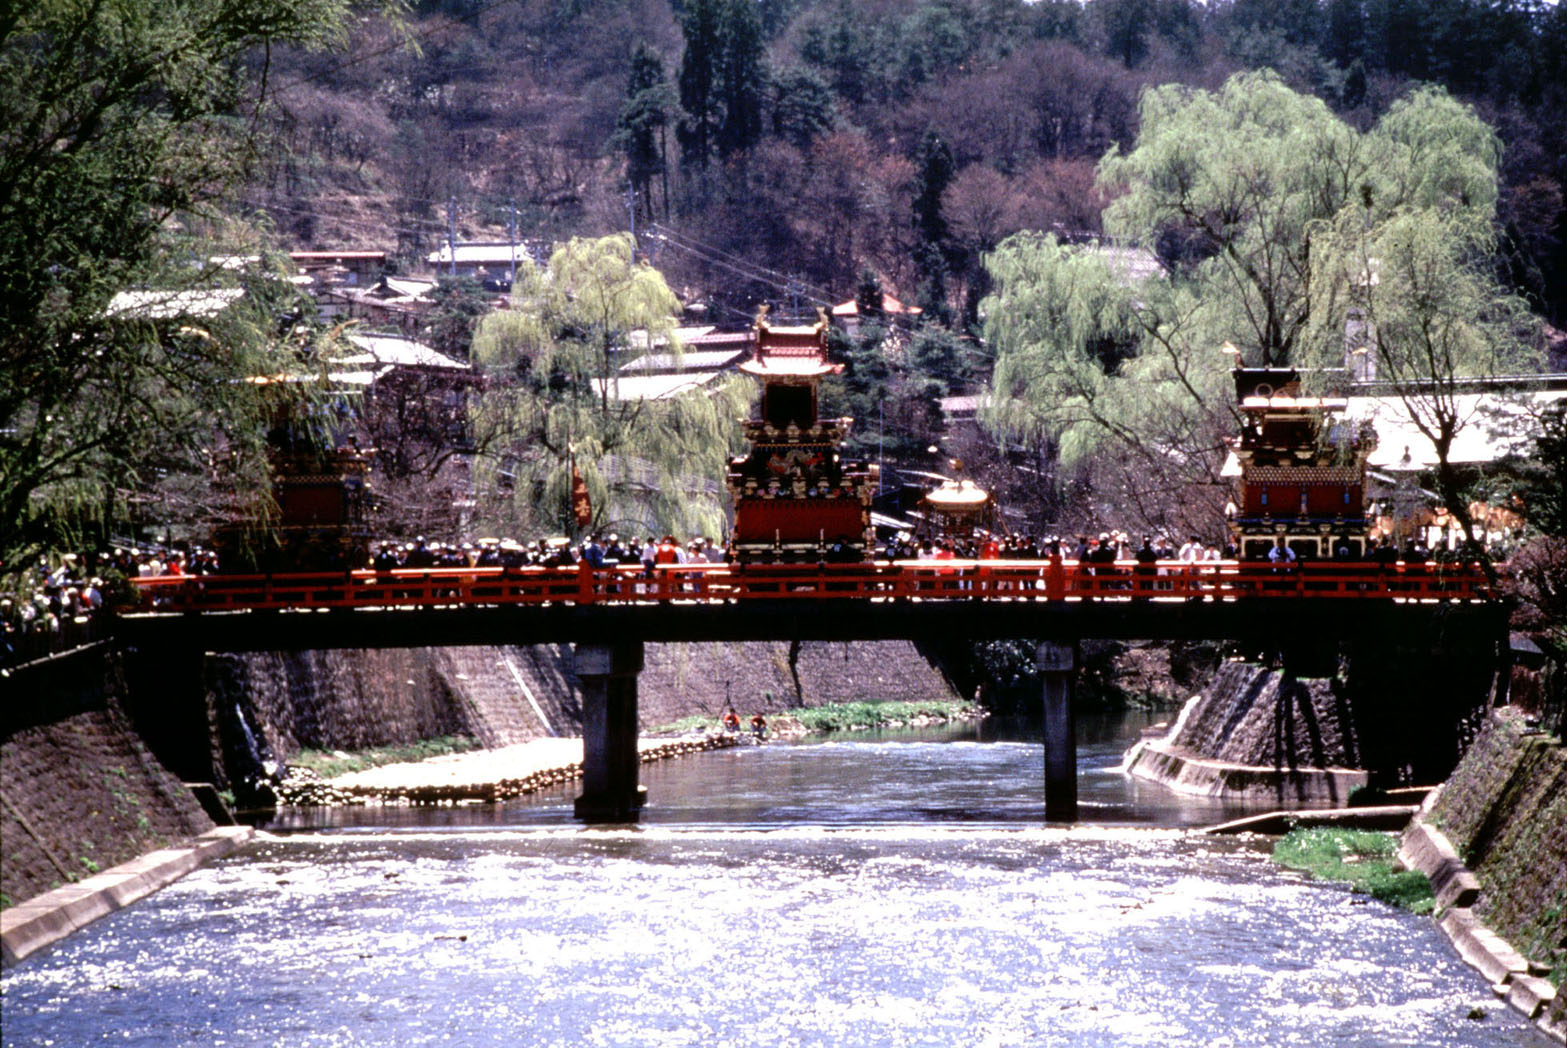
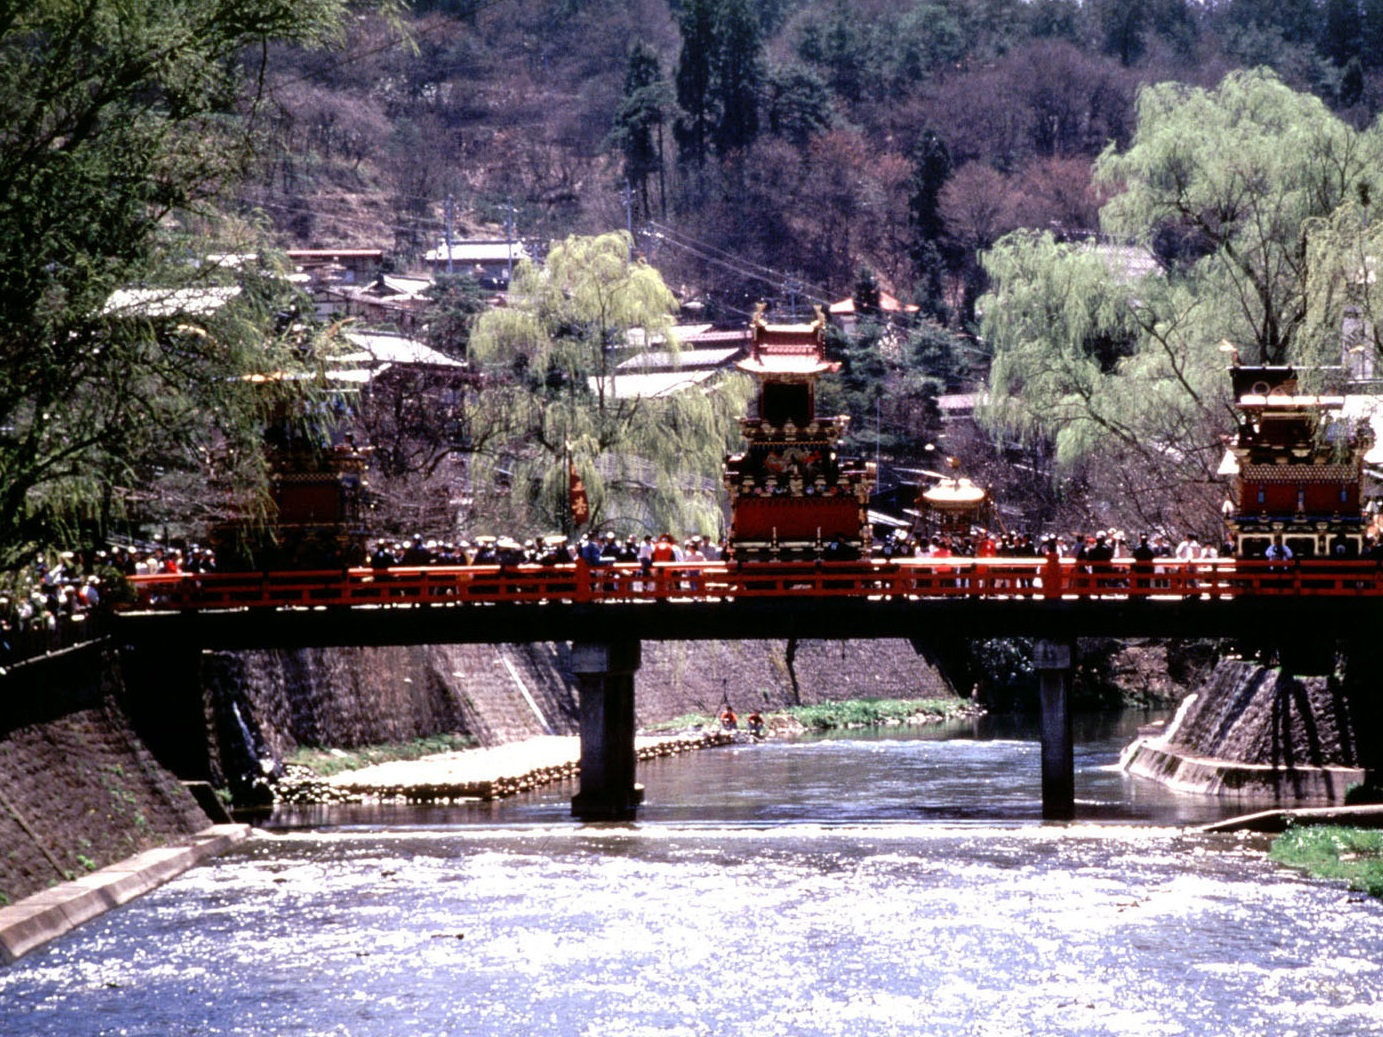
Correzioni
Tagliate immagini con il rapporto 4:3
Corretti piccoli dettagli

diff --git a/TravelInJapan/TravelInJapan/travel.html b/TravelInJapan/TravelInJapan/travel.html
@@ -164,7 +164,7 @@
                 <figure>
                     <img src="Resources/travel/section/day8.jpg" />
                     <figcaption>
-                        Great Buddha-Todai-ji
+                        Tempio-Todai-ji
                     </figcaption>
                 </figure>
             </div>
@@ -262,7 +262,7 @@
             <div class="col-md-4">
                 Colazione al tempio e rituali mattutini con i monaci.
                 Tempo libero e rientro ad Osaka utilizzando il Koya Pass.
-                Pernottamento nel<a href="http://www.vistagrande.jp/en/">Vista Grande Osaka</a>
+                Pernottamento nel hotel <a href="http://www.vistagrande.jp/en/">Vista Grande Osaka</a>
             </div>
         </div>
         <h5 class="hSection text-center">Giorno 15° OSAKA --> AEROPORTO KANSAI - 29 Gennaio</h5>
@@ -278,14 +278,12 @@
             </div>
         </div>
     </div>
-
     <div class="container-fluid footer">
         <h4 class="hSection text-center">Questo viaggio lo vivrai con...</h4>
         <div id="people" class="center-block">
-
+            <!-- Dove verranno inserite le foto degli altri utenti da javascript -->
         </div>
     </div>
-
     <script src="Scripts/jquery-2.1.4.min.js"></script>
     <script src="Scripts/bootstrap.min.js"></script>
     <script src="Scripts/travel.js"></script>

diff --git a/TravelInJapan/TravelInJapan/Scripts/index.js b/TravelInJapan/TravelInJapan/Scripts/index.js
@@ -52,3 +52,4 @@ function setGiftButton(firstname, token) {
 function loadUserPicture(token) {
     $("#userImage").attr("src", "Resources/profileImages/" + token + ".png");
 }
+//# sourceMappingURL=index.js.map

diff --git a/TravelInJapan/TravelInJapan/Scripts/travel.js b/TravelInJapan/TravelInJapan/Scripts/travel.js
@@ -46,3 +46,4 @@ function setUsername(firstname, surname) {
 function setUserPicture(token) {
     $("#userImage").attr("src", "Resources/profileImages/" + token + ".png");
 }
+//# sourceMappingURL=travel.js.map

diff --git a/TravelInJapan/TravelInJapan/Scripts/User.js b/TravelInJapan/TravelInJapan/Scripts/User.js
@@ -1,0 +1,1 @@
+//# sourceMappingURL=user.js.map
